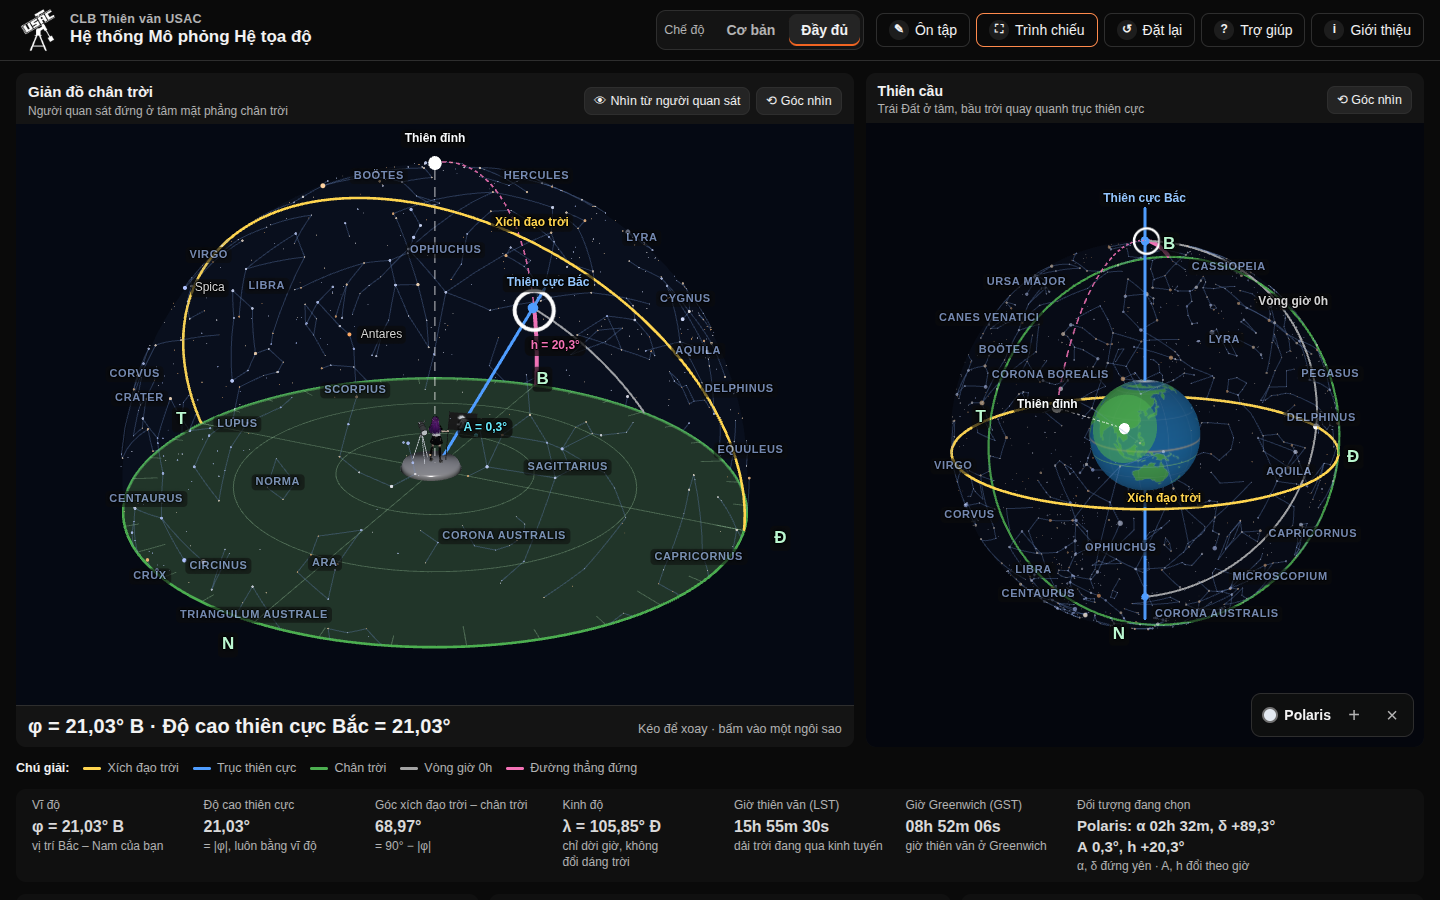
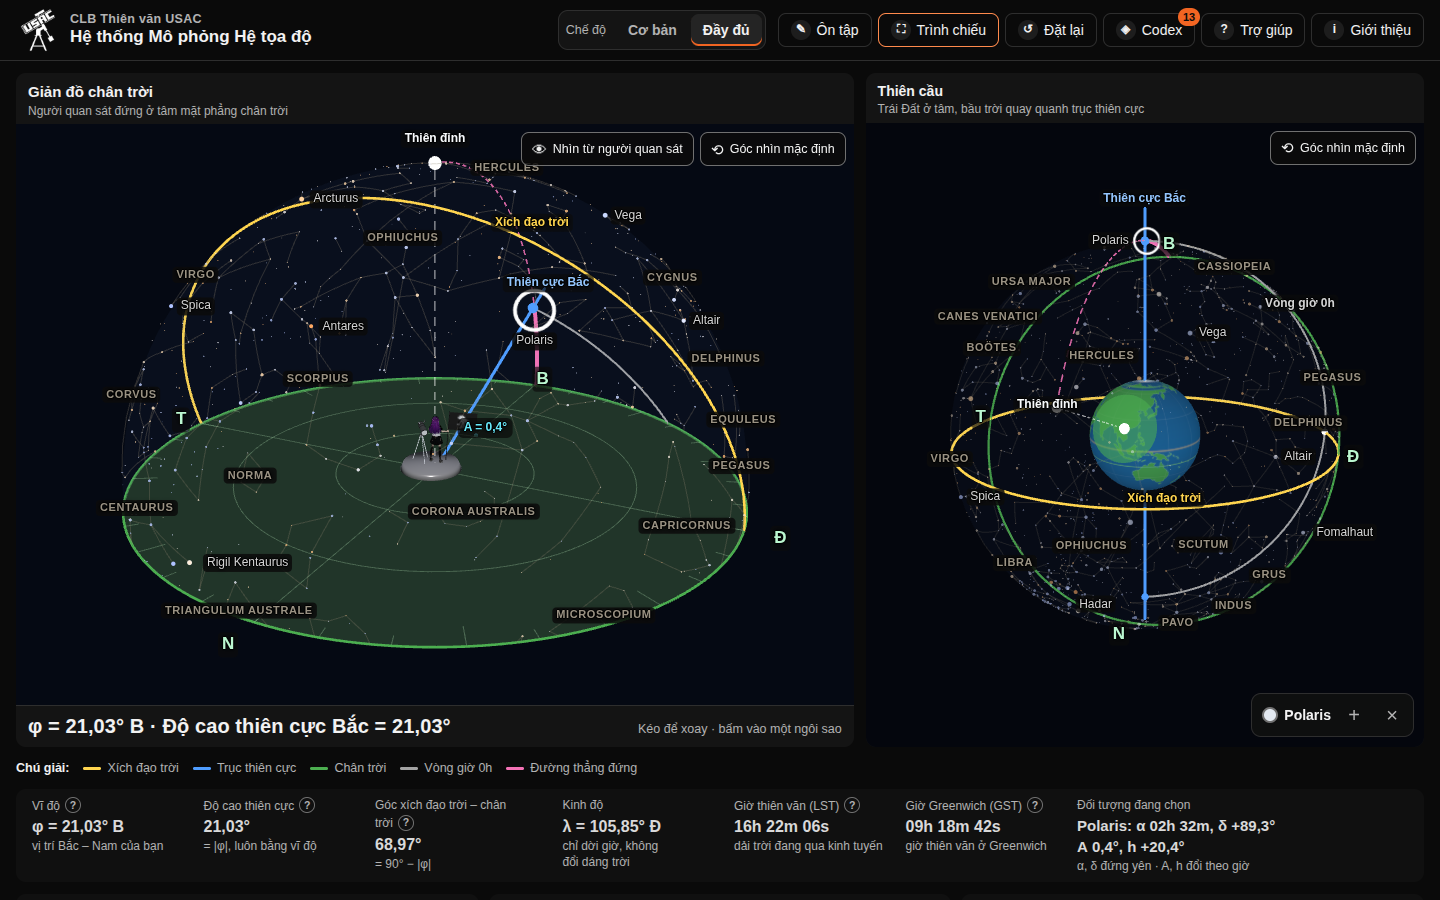
ui: hide background constellation names in Simple mode
The 88 all-caps names crowded the beginner's sky. In Simple, the faint
lines, bright star names and the reference circles stay. Names still
appear in the info card and in Full mode. visibility rather than display,
because CSS2DRenderer writes display on each label. Simple screenshots
refreshed.

Claude-Session: https://claude.ai/code/session_019jDA5Mttr3wgpfp9L9cwH3

diff --git a/src/styles.css b/src/styles.css
@@ -2667,6 +2667,13 @@ body.mode-simple .infocard__body .kv:is(
   }
 }
 
+/* Cơ bản: ẩn tên 88 chòm sao nền (hạng thấp nhất, xem labels.ts) — người mới chỉ cần sao sáng, đường nối mờ và
+   các vòng đang học; tên chòm vẫn hiện khi bấm vào sao (thẻ thông tin) và ở chế độ Đầy đủ. visibility (không phải
+   display) vì CSS2DRenderer tự ghi display lên từng nhãn. */
+body.mode-simple .lbl--allsky {
+  visibility: hidden;
+}
+
 /* ===== Codex (redesign-2 C) ===== */
 /* Bộ khung "codex" bằng kiểu chữ và cấu trúc, không bằng hiệu ứng: nhãn danh mục chữ hoa nhỏ, một đường kẻ mảnh,
    trang đọc rộng ~65ch. Cam chỉ dành cho mục đang chọn, dấu "mới" và hành động (chữ trên cam = --on-accent). */
